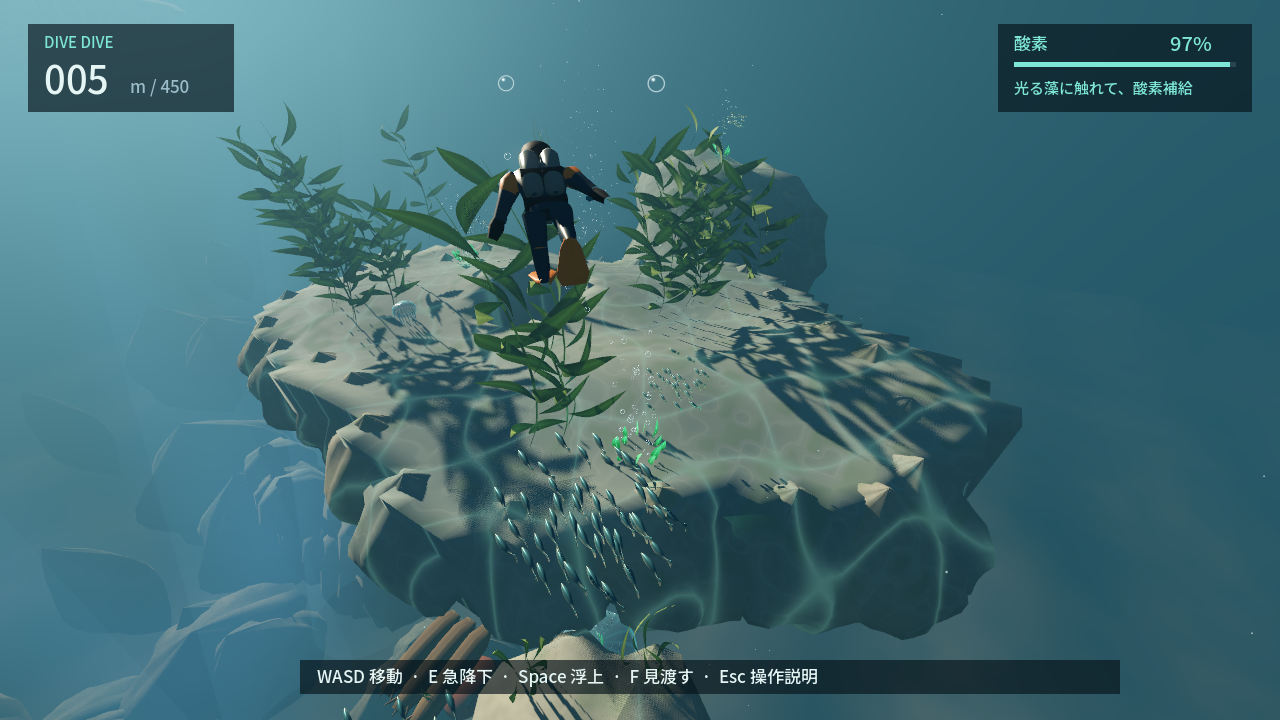
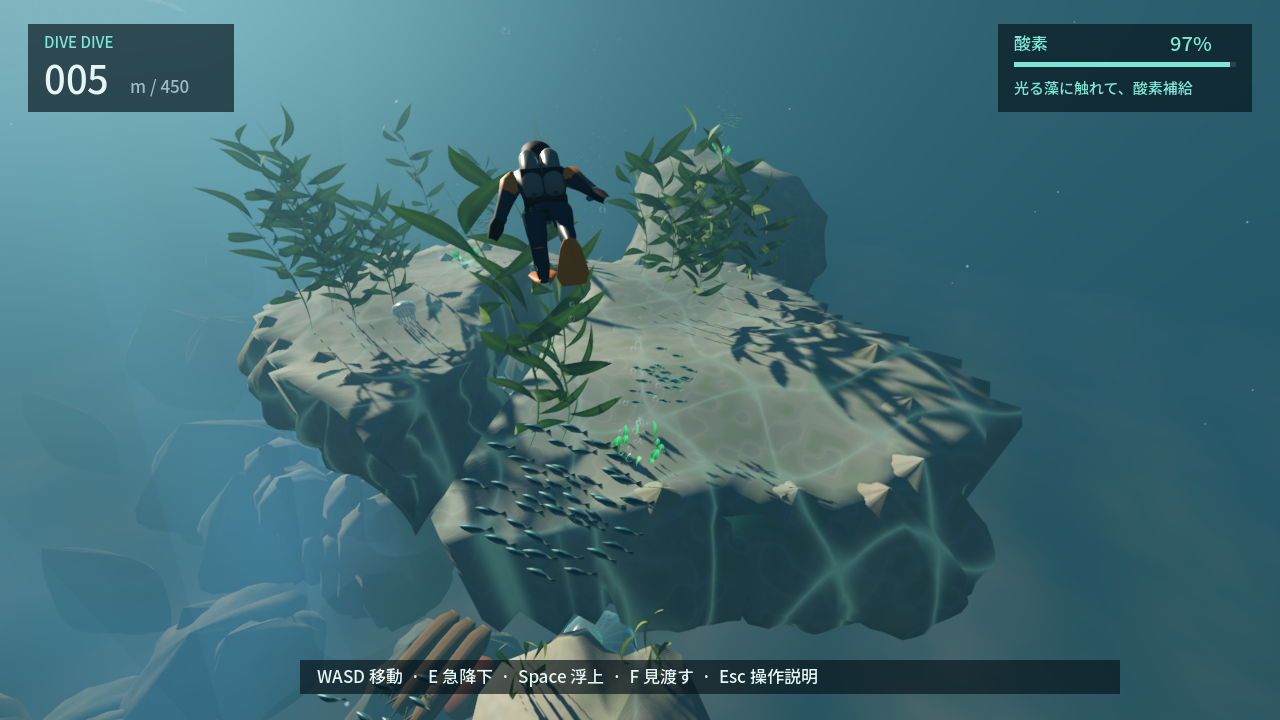
Connect the shallow reef cleft and refine underwater readability

diff --git a/projects/001-first-release/review/sequence/index.html b/projects/001-first-release/review/sequence/index.html
@@ -1,1 +1,1 @@
-<!doctype html><html lang="ja"><meta charset="utf-8"><title>DIVE DIVE — 連続プレイ</title><style>body{margin:24px;background:#071923;color:#e5f5f4;font:16px system-ui}main{max-width:1280px;margin:auto}img{width:100%;display:block}button,input{margin:12px}a{color:#7de6d4}input{width:60%}</style><main><h1>DIVE DIVE 連続プレイ</h1><p>各経路は自動操縦の同じプレイから2秒ごとに撮影。峡谷経路は125mの到達可能な既存補給地点を開始点として設定。モデル時刻の連続画像です（動画ではありません）。</p><select id="route" aria-label="再生する経路"></select><img id="screen" alt="連続プレイ画面"><button id="play">再生</button><input id="seek" type="range" min="0" value="0"><span id="caption"></span></main><script>const runs=[{"label":"125m補給地点→段丘歩行→岩橋→下側の庭（今回・開始点設定あり）","frames":[{"depth":129.3,"file":"canyon-frame-000.jpg","pose":"swim","seconds":2.0},{"depth":139.3,"file":"canyon-frame-001.jpg","pose":"swim","seconds":4.0},{"depth":149.3,"file":"canyon-frame-002.jpg","pose":"swim","seconds":6.0},{"depth":159.3,"file":"canyon-frame-003.jpg","pose":"swim","seconds":8.0},{"depth":160.7,"file":"canyon-frame-004.jpg","pose":"swim","seconds":10.0},{"depth":161.0,"file":"canyon-frame-005.jpg","pose":"ascend","seconds":12.0},{"depth":160.0,"file":"canyon-frame-006.jpg","pose":"idle","seconds":14.0},{"depth":160.0,"file":"canyon-frame-007.jpg","pose":"walk","seconds":16.0},{"depth":166.0,"file":"canyon-frame-008.jpg","pose":"walk","seconds":18.0},{"depth":172.0,"file":"canyon-frame-009.jpg","pose":"walk","seconds":20.0},{"depth":178.0,"file":"canyon-frame-010.jpg","pose":"walk","seconds":22.0},{"depth":183.5,"file":"canyon-frame-011.jpg","pose":"walk","seconds":24.0},{"depth":179.5,"file":"canyon-frame-012.jpg","pose":"swim","seconds":26.0},{"depth":180.5,"file":"canyon-frame-013.jpg","pose":"swim","seconds":28.0},{"depth":181.0,"file":"canyon-frame-014.jpg","pose":"land","seconds":30.0},{"depth":181.5,"file":"canyon-frame-015.jpg","pose":"walk","seconds":32.0},{"depth":185.1,"file":"canyon-frame-016.jpg","pose":"swim","seconds":34.0},{"depth":195.1,"file":"canyon-frame-017.jpg","pose":"swim","seconds":36.0},{"depth":205.1,"file":"canyon-frame-018.jpg","pose":"swim","seconds":38.0},{"depth":215.1,"file":"canyon-frame-019.jpg","pose":"swim","seconds":40.0}]},{"label":"岩礁→洞窟→125m合流（最新）","frames":[{"depth":0.0,"file":"playground-frame-000.jpg","pose":"swim","seconds":2.0},{"depth":14.7,"file":"playground-frame-001.jpg","pose":"dive","seconds":4.0},{"depth":28.1,"file":"playground-frame-002.jpg","pose":"ascend","seconds":6.0},{"depth":27.8,"file":"playground-frame-003.jpg","pose":"walk","seconds":8.0},{"depth":28.9,"file":"playground-frame-004.jpg","pose":"walk","seconds":10.0},{"depth":30.0,"file":"playground-frame-005.jpg","pose":"swim","seconds":12.0},{"depth":32.3,"file":"playground-frame-006.jpg","pose":"walk","seconds":14.0},{"depth":33.0,"file":"playground-frame-007.jpg","pose":"swim","seconds":16.0},{"depth":31.1,"file":"playground-frame-008.jpg","pose":"ascend","seconds":18.0},{"depth":31.3,"file":"playground-frame-009.jpg","pose":"swim","seconds":20.0},{"depth":54.5,"file":"playground-frame-010.jpg","pose":"dive","seconds":22.0},{"depth":53.0,"file":"playground-frame-011.jpg","pose":"ascend","seconds":24.0},{"depth":56.9,"file":"playground-frame-012.jpg","pose":"ascend","seconds":26.0},{"depth":45.1,"file":"playground-frame-013.jpg","pose":"ascend","seconds":28.0},{"depth":43.5,"file":"playground-frame-014.jpg","pose":"ascend","seconds":30.0},{"depth":43.0,"file":"playground-frame-015.jpg","pose":"walk","seconds":32.0},{"depth":43.6,"file":"playground-frame-016.jpg","pose":"walk","seconds":34.0},{"depth":54.1,"file":"playground-frame-017.jpg","pose":"dive","seconds":36.0},{"depth":65.9,"file":"playground-frame-018.jpg","pose":"swim","seconds":38.0},{"depth":72.3,"file":"playground-frame-019.jpg","pose":"swim","seconds":40.0},{"depth":82.3,"file":"playground-frame-020.jpg","pose":"swim","seconds":42.0},{"depth":92.3,"file":"playground-frame-021.jpg","pose":"swim","seconds":44.0},{"depth":94.2,"file":"playground-frame-022.jpg","pose":"swim","seconds":46.0},{"depth":103.4,"file":"playground-frame-023.jpg","pose":"swim","seconds":48.0},{"depth":113.4,"file":"playground-frame-024.jpg","pose":"swim","seconds":50.0},{"depth":123.4,"file":"playground-frame-025.jpg","pose":"swim","seconds":52.0},{"depth":125.0,"file":"playground-frame-026.jpg","pose":"swim","seconds":54.0},{"depth":126.0,"file":"playground-frame-027.jpg","pose":"swim","seconds":56.0}]},{"label":"洞窟→泡→屋根→上穴→別出口（最新）","frames":[{"depth":48.1,"file":"loop-frame-000.jpg","pose":"walk","seconds":2.0},{"depth":49.6,"file":"loop-frame-001.jpg","pose":"swim","seconds":4.0},{"depth":47.4,"file":"loop-frame-002.jpg","pose":"ascend","seconds":6.0},{"depth":40.5,"file":"loop-frame-003.jpg","pose":"ascend","seconds":8.0},{"depth":35.7,"file":"loop-frame-004.jpg","pose":"ascend","seconds":10.0},{"depth":31.2,"file":"loop-frame-005.jpg","pose":"ascend","seconds":12.0},{"depth":25.6,"file":"loop-frame-006.jpg","pose":"ascend","seconds":14.0},{"depth":24.5,"file":"loop-frame-007.jpg","pose":"ascend","seconds":16.0},{"depth":27.2,"file":"loop-frame-008.jpg","pose":"idle","seconds":18.0},{"depth":28.5,"file":"loop-frame-009.jpg","pose":"walk","seconds":20.0},{"depth":45.6,"file":"loop-frame-010.jpg","pose":"land","seconds":22.0},{"depth":49.6,"file":"loop-frame-011.jpg","pose":"swim","seconds":24.0},{"depth":65.1,"file":"loop-frame-012.jpg","pose":"swim","seconds":26.0}]},{"label":"探索試作: 泡・流れ・穴（最新）","frames":[{"depth":0.0,"file":"discovery-frame-000.jpg","pose":"swim","seconds":2.0},{"depth":15.7,"file":"discovery-frame-001.jpg","pose":"dive","seconds":4.0},{"depth":25.9,"file":"discovery-frame-002.jpg","pose":"sink","seconds":6.0},{"depth":38.8,"file":"discovery-frame-003.jpg","pose":"dive","seconds":8.0},{"depth":56.9,"file":"discovery-frame-004.jpg","pose":"swim","seconds":10.0},{"depth":67.9,"file":"discovery-frame-005.jpg","pose":"swim","seconds":12.0},{"depth":75.4,"file":"discovery-frame-006.jpg","pose":"swim","seconds":14.0},{"depth":86.4,"file":"discovery-frame-007.jpg","pose":"swim","seconds":16.0},{"depth":96.4,"file":"discovery-frame-008.jpg","pose":"sink","seconds":18.0},{"depth":111.2,"file":"discovery-frame-009.jpg","pose":"dive","seconds":20.0}]},{"label":"操作・救助・再挑戦","frames":[{"depth":0.0,"file":"frame-000.jpg","pose":"swim","seconds":2.0},{"depth":7.2,"file":"frame-001.jpg","pose":"swim","seconds":4.0},{"depth":17.2,"file":"frame-002.jpg","pose":"sink","seconds":6.0},{"depth":27.2,"file":"frame-003.jpg","pose":"sink","seconds":8.0},{"depth":30.1,"file":"frame-004.jpg","pose":"walk","seconds":10.0},{"depth":30.0,"file":"frame-005.jpg","pose":"walk","seconds":12.0},{"depth":30.0,"file":"frame-006.jpg","pose":"walk","seconds":14.0},{"depth":33.9,"file":"frame-007.jpg","pose":"swim","seconds":16.0},{"depth":48.9,"file":"frame-008.jpg","pose":"dive","seconds":18.0},{"depth":55.1,"file":"frame-009.jpg","pose":"ascend","seconds":20.0},{"depth":49.2,"file":"frame-010.jpg","pose":"sink","seconds":22.0},{"depth":59.2,"file":"frame-011.jpg","pose":"sink","seconds":24.0},{"depth":61.4,"file":"frame-012.jpg","pose":"swim","seconds":26.0},{"depth":65.4,"file":"frame-013.jpg","pose":"swim","seconds":28.0},{"depth":72.7,"file":"frame-014.jpg","pose":"swim","seconds":30.0},{"depth":82.7,"file":"frame-015.jpg","pose":"sink","seconds":32.0},{"depth":90.5,"file":"frame-016.jpg","pose":"walk","seconds":34.0},{"depth":90.3,"file":"frame-017.jpg","pose":"walk","seconds":36.0},{"depth":90.5,"file":"frame-018.jpg","pose":"idle","seconds":38.0},{"depth":90.5,"file":"frame-019.jpg","pose":"idle","seconds":40.0},{"depth":90.1,"file":"frame-020.jpg","pose":"idle","seconds":42.0},{"depth":90.1,"file":"frame-021.jpg","pose":"idle","seconds":44.0},{"depth":90.1,"file":"frame-022.jpg","pose":"idle","seconds":46.0},{"depth":90.1,"file":"frame-023.jpg","pose":"idle","seconds":48.0},{"depth":83.7,"file":"frame-024.jpg","pose":"ascend","seconds":50.0},{"depth":57.5,"file":"frame-025.jpg","pose":"dive","seconds":52.0},{"depth":61.5,"file":"frame-026.jpg","pose":"swim","seconds":54.0},{"depth":65.5,"file":"frame-027.jpg","pose":"swim","seconds":56.0},{"depth":73.0,"file":"frame-028.jpg","pose":"sink","seconds":58.0},{"depth":83.0,"file":"frame-029.jpg","pose":"sink","seconds":60.0},{"depth":90.3,"file":"frame-030.jpg","pose":"walk","seconds":62.0},{"depth":93.3,"file":"frame-031.jpg","pose":"swim","seconds":64.0}]},{"label":"岸壁・裂け目450m回帰確認","frames":[{"depth":0.0,"file":"reef-frame-000.jpg","pose":"swim","seconds":2.0},{"depth":7.2,"file":"reef-frame-001.jpg","pose":"swim","seconds":4.0},{"depth":17.2,"file":"reef-frame-002.jpg","pose":"sink","seconds":6.0},{"depth":27.2,"file":"reef-frame-003.jpg","pose":"sink","seconds":8.0},{"depth":30.4,"file":"reef-frame-004.jpg","pose":"swim","seconds":10.0},{"depth":34.4,"file":"reef-frame-005.jpg","pose":"swim","seconds":12.0},{"depth":44.2,"file":"reef-frame-006.jpg","pose":"sink","seconds":14.0},{"depth":54.2,"file":"reef-frame-007.jpg","pose":"sink","seconds":16.0},{"depth":60.0,"file":"reef-frame-008.jpg","pose":"walk","seconds":18.0},{"depth":62.5,"file":"reef-frame-009.jpg","pose":"swim","seconds":20.0},{"depth":71.1,"file":"reef-frame-010.jpg","pose":"sink","seconds":22.0},{"depth":81.1,"file":"reef-frame-011.jpg","pose":"sink","seconds":24.0},{"depth":91.1,"file":"reef-frame-012.jpg","pose":"sink","seconds":26.0},{"depth":96.1,"file":"reef-frame-013.jpg","pose":"swim","seconds":28.0},{"depth":103.7,"file":"reef-frame-014.jpg","pose":"sink","seconds":30.0},{"depth":113.7,"file":"reef-frame-015.jpg","pose":"sink","seconds":32.0},{"depth":123.7,"file":"reef-frame-016.jpg","pose":"sink","seconds":34.0},{"depth":133.7,"file":"reef-frame-017.jpg","pose":"sink","seconds":36.0},{"depth":140.0,"file":"reef-frame-018.jpg","pose":"walk","seconds":38.0},{"depth":142.5,"file":"reef-frame-019.jpg","pose":"swim","seconds":40.0},{"depth":146.5,"file":"reef-frame-020.jpg","pose":"swim","seconds":42.0},{"depth":151.6,"file":"reef-frame-021.jpg","pose":"swim","seconds":44.0},{"depth":161.6,"file":"reef-frame-022.jpg","pose":"sink","seconds":46.0},{"depth":171.6,"file":"reef-frame-023.jpg","pose":"sink","seconds":48.0},{"depth":173.4,"file":"reef-frame-024.jpg","pose":"swim","seconds":50.0},{"depth":183.4,"file":"reef-frame-025.jpg","pose":"sink","seconds":52.0},{"depth":190.0,"file":"reef-frame-026.jpg","pose":"walk","seconds":54.0},{"depth":190.0,"file":"reef-frame-027.jpg","pose":"idle","seconds":56.0},{"depth":190.0,"file":"reef-frame-028.jpg","pose":"walk","seconds":58.0},{"depth":190.0,"file":"reef-frame-029.jpg","pose":"idle","seconds":60.0},{"depth":190.0,"file":"reef-frame-030.jpg","pose":"walk","seconds":62.0},{"depth":193.0,"file":"reef-frame-031.jpg","pose":"walk","seconds":64.0},{"depth":194.9,"file":"reef-frame-032.jpg","pose":"sink","seconds":66.0},{"depth":204.9,"file":"reef-frame-033.jpg","pose":"land","seconds":68.0},{"depth":206.4,"file":"reef-frame-034.jpg","pose":"swim","seconds":70.0},{"depth":212.3,"file":"reef-frame-035.jpg","pose":"swim","seconds":72.0},{"depth":222.3,"file":"reef-frame-036.jpg","pose":"sink","seconds":74.0},{"depth":232.3,"file":"reef-frame-037.jpg","pose":"sink","seconds":76.0},{"depth":235.9,"file":"reef-frame-038.jpg","pose":"swim","seconds":78.0},{"depth":240.2,"file":"reef-frame-039.jpg","pose":"swim","seconds":80.0},{"depth":244.3,"file":"reef-frame-040.jpg","pose":"swim","seconds":82.0},{"depth":248.3,"file":"reef-frame-041.jpg","pose":"swim","seconds":84.0},{"depth":256.5,"file":"reef-frame-042.jpg","pose":"sink","seconds":86.0},{"depth":260.0,"file":"reef-frame-043.jpg","pose":"walk","seconds":88.0},{"depth":264.0,"file":"reef-frame-044.jpg","pose":"swim","seconds":90.0},{"depth":271.1,"file":"reef-frame-045.jpg","pose":"swim","seconds":92.0},{"depth":281.1,"file":"reef-frame-046.jpg","pose":"sink","seconds":94.0},{"depth":291.1,"file":"reef-frame-047.jpg","pose":"sink","seconds":96.0},{"depth":300.0,"file":"reef-frame-048.jpg","pose":"land","seconds":98.0},{"depth":300.8,"file":"reef-frame-049.jpg","pose":"swim","seconds":100.0},{"depth":304.8,"file":"reef-frame-050.jpg","pose":"swim","seconds":102.0},{"depth":313.0,"file":"reef-frame-051.jpg","pose":"sink","seconds":104.0},{"depth":323.0,"file":"reef-frame-052.jpg","pose":"sink","seconds":106.0},{"depth":330.0,"file":"reef-frame-053.jpg","pose":"walk","seconds":108.0},{"depth":333.0,"file":"reef-frame-054.jpg","pose":"swim","seconds":110.0},{"depth":340.1,"file":"reef-frame-055.jpg","pose":"swim","seconds":112.0},{"depth":350.1,"file":"reef-frame-056.jpg","pose":"sink","seconds":114.0},{"depth":360.1,"file":"reef-frame-057.jpg","pose":"sink","seconds":116.0},{"depth":365.1,"file":"reef-frame-058.jpg","pose":"walk","seconds":118.0},{"depth":368.9,"file":"reef-frame-059.jpg","pose":"swim","seconds":120.0},{"depth":377.9,"file":"reef-frame-060.jpg","pose":"sink","seconds":122.0},{"depth":380.7,"file":"reef-frame-061.jpg","pose":"swim","seconds":124.0},{"depth":386.8,"file":"reef-frame-062.jpg","pose":"swim","seconds":126.0},{"depth":396.8,"file":"reef-frame-063.jpg","pose":"sink","seconds":128.0},{"depth":406.8,"file":"reef-frame-064.jpg","pose":"sink","seconds":130.0},{"depth":416.8,"file":"reef-frame-065.jpg","pose":"sink","seconds":132.0},{"depth":426.8,"file":"reef-frame-066.jpg","pose":"sink","seconds":134.0},{"depth":436.8,"file":"reef-frame-067.jpg","pose":"sink","seconds":136.0},{"depth":446.8,"file":"reef-frame-068.jpg","pose":"sink","seconds":138.0}]}];let frames=runs[0].frames;let i=0,timer=null;const screen=document.querySelector('#screen'),seek=document.querySelector('#seek'),caption=document.querySelector('#caption'),play=document.querySelector('#play');const route=document.querySelector('#route');runs.forEach((r,n)=>{const o=document.createElement('option');o.value=n;o.textContent=r.label;route.appendChild(o);});route.onchange=()=>{frames=runs[+route.value].frames;i=0;seek.max=frames.length-1;show();};seek.max=frames.length-1;function show(){const f=frames[i];screen.src=f.file;seek.value=i;caption.textContent=f.seconds+'秒 / '+f.depth+'m / '+f.pose;}seek.oninput=()=>{i=+seek.value;show();};play.onclick=()=>{if(timer){clearInterval(timer);timer=null;play.textContent='再生';}else{play.textContent='停止';timer=setInterval(()=>{i=(i+1)%frames.length;show();},2000);}};show();</script></html>
+<!doctype html><html lang="ja"><meta charset="utf-8"><title>DIVE DIVE — 連続プレイ</title><style>body{margin:24px;background:#071923;color:#e5f5f4;font:16px system-ui}main{max-width:1280px;margin:auto}img{width:100%;display:block}button,input{margin:12px}a{color:#7de6d4}input{width:60%}</style><main><h1>DIVE DIVE 連続プレイ</h1><p>各経路は自動操縦の同じプレイから2秒ごとに撮影。峡谷経路は125mの到達可能な既存補給地点を開始点として設定。モデル時刻の連続画像です（動画ではありません）。</p><select id="route" aria-label="再生する経路"></select><img id="screen" alt="連続プレイ画面"><button id="play">再生</button><input id="seek" type="range" min="0" value="0"><span id="caption"></span></main><script>const runs=[{"label":"海上→藻庭→横穴→縦穴（今回・連続入力）","frames":[{"depth":0.0,"file":"entry-frame-000.jpg","pose":"swim","seconds":2.0},{"depth":6.8,"file":"entry-frame-001.jpg","pose":"dive","seconds":4.0},{"depth":28.1,"file":"entry-frame-002.jpg","pose":"walk","seconds":6.0},{"depth":30.4,"file":"entry-frame-003.jpg","pose":"swim","seconds":8.0},{"depth":40.4,"file":"entry-frame-004.jpg","pose":"swim","seconds":10.0}]},{"label":"125m補給地点→段丘歩行→岩橋→下側の庭（7895b60・開始点設定あり）","frames":[{"depth":129.3,"file":"canyon-frame-000.jpg","pose":"swim","seconds":2.0},{"depth":139.3,"file":"canyon-frame-001.jpg","pose":"swim","seconds":4.0},{"depth":149.3,"file":"canyon-frame-002.jpg","pose":"swim","seconds":6.0},{"depth":159.3,"file":"canyon-frame-003.jpg","pose":"swim","seconds":8.0},{"depth":160.7,"file":"canyon-frame-004.jpg","pose":"swim","seconds":10.0},{"depth":161.0,"file":"canyon-frame-005.jpg","pose":"ascend","seconds":12.0},{"depth":160.0,"file":"canyon-frame-006.jpg","pose":"idle","seconds":14.0},{"depth":160.0,"file":"canyon-frame-007.jpg","pose":"walk","seconds":16.0},{"depth":166.0,"file":"canyon-frame-008.jpg","pose":"walk","seconds":18.0},{"depth":172.0,"file":"canyon-frame-009.jpg","pose":"walk","seconds":20.0},{"depth":178.0,"file":"canyon-frame-010.jpg","pose":"walk","seconds":22.0},{"depth":183.5,"file":"canyon-frame-011.jpg","pose":"walk","seconds":24.0},{"depth":179.5,"file":"canyon-frame-012.jpg","pose":"swim","seconds":26.0},{"depth":180.5,"file":"canyon-frame-013.jpg","pose":"swim","seconds":28.0},{"depth":181.0,"file":"canyon-frame-014.jpg","pose":"land","seconds":30.0},{"depth":181.5,"file":"canyon-frame-015.jpg","pose":"walk","seconds":32.0},{"depth":185.1,"file":"canyon-frame-016.jpg","pose":"swim","seconds":34.0},{"depth":195.1,"file":"canyon-frame-017.jpg","pose":"swim","seconds":36.0},{"depth":205.1,"file":"canyon-frame-018.jpg","pose":"swim","seconds":38.0},{"depth":215.1,"file":"canyon-frame-019.jpg","pose":"swim","seconds":40.0}]},{"label":"岩礁→洞窟→125m合流（過去サイクルの参考）","frames":[{"depth":0.0,"file":"playground-frame-000.jpg","pose":"swim","seconds":2.0},{"depth":14.7,"file":"playground-frame-001.jpg","pose":"dive","seconds":4.0},{"depth":28.1,"file":"playground-frame-002.jpg","pose":"ascend","seconds":6.0},{"depth":27.8,"file":"playground-frame-003.jpg","pose":"walk","seconds":8.0},{"depth":28.9,"file":"playground-frame-004.jpg","pose":"walk","seconds":10.0},{"depth":30.0,"file":"playground-frame-005.jpg","pose":"swim","seconds":12.0},{"depth":32.3,"file":"playground-frame-006.jpg","pose":"walk","seconds":14.0},{"depth":33.0,"file":"playground-frame-007.jpg","pose":"swim","seconds":16.0},{"depth":31.1,"file":"playground-frame-008.jpg","pose":"ascend","seconds":18.0},{"depth":31.3,"file":"playground-frame-009.jpg","pose":"swim","seconds":20.0},{"depth":54.5,"file":"playground-frame-010.jpg","pose":"dive","seconds":22.0},{"depth":53.0,"file":"playground-frame-011.jpg","pose":"ascend","seconds":24.0},{"depth":56.9,"file":"playground-frame-012.jpg","pose":"ascend","seconds":26.0},{"depth":45.1,"file":"playground-frame-013.jpg","pose":"ascend","seconds":28.0},{"depth":43.5,"file":"playground-frame-014.jpg","pose":"ascend","seconds":30.0},{"depth":43.0,"file":"playground-frame-015.jpg","pose":"walk","seconds":32.0},{"depth":43.6,"file":"playground-frame-016.jpg","pose":"walk","seconds":34.0},{"depth":54.1,"file":"playground-frame-017.jpg","pose":"dive","seconds":36.0},{"depth":65.9,"file":"playground-frame-018.jpg","pose":"swim","seconds":38.0},{"depth":72.3,"file":"playground-frame-019.jpg","pose":"swim","seconds":40.0},{"depth":82.3,"file":"playground-frame-020.jpg","pose":"swim","seconds":42.0},{"depth":92.3,"file":"playground-frame-021.jpg","pose":"swim","seconds":44.0},{"depth":94.2,"file":"playground-frame-022.jpg","pose":"swim","seconds":46.0},{"depth":103.4,"file":"playground-frame-023.jpg","pose":"swim","seconds":48.0},{"depth":113.4,"file":"playground-frame-024.jpg","pose":"swim","seconds":50.0},{"depth":123.4,"file":"playground-frame-025.jpg","pose":"swim","seconds":52.0},{"depth":125.0,"file":"playground-frame-026.jpg","pose":"swim","seconds":54.0},{"depth":126.0,"file":"playground-frame-027.jpg","pose":"swim","seconds":56.0}]},{"label":"洞窟→泡→屋根→上穴→別出口（過去サイクルの参考）","frames":[{"depth":48.1,"file":"loop-frame-000.jpg","pose":"walk","seconds":2.0},{"depth":49.6,"file":"loop-frame-001.jpg","pose":"swim","seconds":4.0},{"depth":47.4,"file":"loop-frame-002.jpg","pose":"ascend","seconds":6.0},{"depth":40.5,"file":"loop-frame-003.jpg","pose":"ascend","seconds":8.0},{"depth":35.7,"file":"loop-frame-004.jpg","pose":"ascend","seconds":10.0},{"depth":31.2,"file":"loop-frame-005.jpg","pose":"ascend","seconds":12.0},{"depth":25.6,"file":"loop-frame-006.jpg","pose":"ascend","seconds":14.0},{"depth":24.5,"file":"loop-frame-007.jpg","pose":"ascend","seconds":16.0},{"depth":27.2,"file":"loop-frame-008.jpg","pose":"idle","seconds":18.0},{"depth":28.5,"file":"loop-frame-009.jpg","pose":"walk","seconds":20.0},{"depth":45.6,"file":"loop-frame-010.jpg","pose":"land","seconds":22.0},{"depth":49.6,"file":"loop-frame-011.jpg","pose":"swim","seconds":24.0},{"depth":65.1,"file":"loop-frame-012.jpg","pose":"swim","seconds":26.0}]},{"label":"探索試作: 泡・流れ・穴（過去サイクルの参考）","frames":[{"depth":0.0,"file":"discovery-frame-000.jpg","pose":"swim","seconds":2.0},{"depth":15.7,"file":"discovery-frame-001.jpg","pose":"dive","seconds":4.0},{"depth":25.9,"file":"discovery-frame-002.jpg","pose":"sink","seconds":6.0},{"depth":38.8,"file":"discovery-frame-003.jpg","pose":"dive","seconds":8.0},{"depth":56.9,"file":"discovery-frame-004.jpg","pose":"swim","seconds":10.0},{"depth":67.9,"file":"discovery-frame-005.jpg","pose":"swim","seconds":12.0},{"depth":75.4,"file":"discovery-frame-006.jpg","pose":"swim","seconds":14.0},{"depth":86.4,"file":"discovery-frame-007.jpg","pose":"swim","seconds":16.0},{"depth":96.4,"file":"discovery-frame-008.jpg","pose":"sink","seconds":18.0},{"depth":111.2,"file":"discovery-frame-009.jpg","pose":"dive","seconds":20.0}]},{"label":"操作・救助・再挑戦","frames":[{"depth":0.0,"file":"frame-000.jpg","pose":"swim","seconds":2.0},{"depth":7.2,"file":"frame-001.jpg","pose":"swim","seconds":4.0},{"depth":17.2,"file":"frame-002.jpg","pose":"sink","seconds":6.0},{"depth":27.2,"file":"frame-003.jpg","pose":"sink","seconds":8.0},{"depth":30.1,"file":"frame-004.jpg","pose":"walk","seconds":10.0},{"depth":30.0,"file":"frame-005.jpg","pose":"walk","seconds":12.0},{"depth":30.0,"file":"frame-006.jpg","pose":"walk","seconds":14.0},{"depth":33.9,"file":"frame-007.jpg","pose":"swim","seconds":16.0},{"depth":48.9,"file":"frame-008.jpg","pose":"dive","seconds":18.0},{"depth":55.1,"file":"frame-009.jpg","pose":"ascend","seconds":20.0},{"depth":49.2,"file":"frame-010.jpg","pose":"sink","seconds":22.0},{"depth":59.2,"file":"frame-011.jpg","pose":"sink","seconds":24.0},{"depth":61.4,"file":"frame-012.jpg","pose":"swim","seconds":26.0},{"depth":65.4,"file":"frame-013.jpg","pose":"swim","seconds":28.0},{"depth":72.7,"file":"frame-014.jpg","pose":"swim","seconds":30.0},{"depth":82.7,"file":"frame-015.jpg","pose":"sink","seconds":32.0},{"depth":90.5,"file":"frame-016.jpg","pose":"walk","seconds":34.0},{"depth":90.3,"file":"frame-017.jpg","pose":"walk","seconds":36.0},{"depth":90.5,"file":"frame-018.jpg","pose":"idle","seconds":38.0},{"depth":90.5,"file":"frame-019.jpg","pose":"idle","seconds":40.0},{"depth":90.1,"file":"frame-020.jpg","pose":"idle","seconds":42.0},{"depth":90.1,"file":"frame-021.jpg","pose":"idle","seconds":44.0},{"depth":90.1,"file":"frame-022.jpg","pose":"idle","seconds":46.0},{"depth":90.1,"file":"frame-023.jpg","pose":"idle","seconds":48.0},{"depth":83.7,"file":"frame-024.jpg","pose":"ascend","seconds":50.0},{"depth":57.5,"file":"frame-025.jpg","pose":"dive","seconds":52.0},{"depth":61.5,"file":"frame-026.jpg","pose":"swim","seconds":54.0},{"depth":65.5,"file":"frame-027.jpg","pose":"swim","seconds":56.0},{"depth":73.0,"file":"frame-028.jpg","pose":"sink","seconds":58.0},{"depth":83.0,"file":"frame-029.jpg","pose":"sink","seconds":60.0},{"depth":90.3,"file":"frame-030.jpg","pose":"walk","seconds":62.0},{"depth":93.3,"file":"frame-031.jpg","pose":"swim","seconds":64.0}]},{"label":"岸壁・裂け目450m回帰確認","frames":[{"depth":0.0,"file":"reef-frame-000.jpg","pose":"swim","seconds":2.0},{"depth":7.2,"file":"reef-frame-001.jpg","pose":"swim","seconds":4.0},{"depth":17.2,"file":"reef-frame-002.jpg","pose":"sink","seconds":6.0},{"depth":27.2,"file":"reef-frame-003.jpg","pose":"sink","seconds":8.0},{"depth":30.4,"file":"reef-frame-004.jpg","pose":"swim","seconds":10.0},{"depth":34.4,"file":"reef-frame-005.jpg","pose":"swim","seconds":12.0},{"depth":44.2,"file":"reef-frame-006.jpg","pose":"sink","seconds":14.0},{"depth":54.2,"file":"reef-frame-007.jpg","pose":"sink","seconds":16.0},{"depth":60.0,"file":"reef-frame-008.jpg","pose":"walk","seconds":18.0},{"depth":62.5,"file":"reef-frame-009.jpg","pose":"swim","seconds":20.0},{"depth":71.1,"file":"reef-frame-010.jpg","pose":"sink","seconds":22.0},{"depth":81.1,"file":"reef-frame-011.jpg","pose":"sink","seconds":24.0},{"depth":91.1,"file":"reef-frame-012.jpg","pose":"sink","seconds":26.0},{"depth":96.1,"file":"reef-frame-013.jpg","pose":"swim","seconds":28.0},{"depth":103.7,"file":"reef-frame-014.jpg","pose":"sink","seconds":30.0},{"depth":113.7,"file":"reef-frame-015.jpg","pose":"sink","seconds":32.0},{"depth":123.7,"file":"reef-frame-016.jpg","pose":"sink","seconds":34.0},{"depth":133.7,"file":"reef-frame-017.jpg","pose":"sink","seconds":36.0},{"depth":140.0,"file":"reef-frame-018.jpg","pose":"walk","seconds":38.0},{"depth":142.5,"file":"reef-frame-019.jpg","pose":"swim","seconds":40.0},{"depth":146.5,"file":"reef-frame-020.jpg","pose":"swim","seconds":42.0},{"depth":151.6,"file":"reef-frame-021.jpg","pose":"swim","seconds":44.0},{"depth":161.6,"file":"reef-frame-022.jpg","pose":"sink","seconds":46.0},{"depth":171.6,"file":"reef-frame-023.jpg","pose":"sink","seconds":48.0},{"depth":173.4,"file":"reef-frame-024.jpg","pose":"swim","seconds":50.0},{"depth":183.4,"file":"reef-frame-025.jpg","pose":"sink","seconds":52.0},{"depth":190.0,"file":"reef-frame-026.jpg","pose":"walk","seconds":54.0},{"depth":190.0,"file":"reef-frame-027.jpg","pose":"idle","seconds":56.0},{"depth":190.0,"file":"reef-frame-028.jpg","pose":"walk","seconds":58.0},{"depth":190.0,"file":"reef-frame-029.jpg","pose":"idle","seconds":60.0},{"depth":190.0,"file":"reef-frame-030.jpg","pose":"walk","seconds":62.0},{"depth":193.0,"file":"reef-frame-031.jpg","pose":"walk","seconds":64.0},{"depth":194.9,"file":"reef-frame-032.jpg","pose":"sink","seconds":66.0},{"depth":204.9,"file":"reef-frame-033.jpg","pose":"land","seconds":68.0},{"depth":206.4,"file":"reef-frame-034.jpg","pose":"swim","seconds":70.0},{"depth":212.3,"file":"reef-frame-035.jpg","pose":"swim","seconds":72.0},{"depth":222.3,"file":"reef-frame-036.jpg","pose":"sink","seconds":74.0},{"depth":232.3,"file":"reef-frame-037.jpg","pose":"sink","seconds":76.0},{"depth":235.9,"file":"reef-frame-038.jpg","pose":"swim","seconds":78.0},{"depth":240.2,"file":"reef-frame-039.jpg","pose":"swim","seconds":80.0},{"depth":244.3,"file":"reef-frame-040.jpg","pose":"swim","seconds":82.0},{"depth":248.3,"file":"reef-frame-041.jpg","pose":"swim","seconds":84.0},{"depth":256.5,"file":"reef-frame-042.jpg","pose":"sink","seconds":86.0},{"depth":260.0,"file":"reef-frame-043.jpg","pose":"walk","seconds":88.0},{"depth":264.0,"file":"reef-frame-044.jpg","pose":"swim","seconds":90.0},{"depth":271.1,"file":"reef-frame-045.jpg","pose":"swim","seconds":92.0},{"depth":281.1,"file":"reef-frame-046.jpg","pose":"sink","seconds":94.0},{"depth":291.1,"file":"reef-frame-047.jpg","pose":"sink","seconds":96.0},{"depth":300.0,"file":"reef-frame-048.jpg","pose":"land","seconds":98.0},{"depth":300.8,"file":"reef-frame-049.jpg","pose":"swim","seconds":100.0},{"depth":304.8,"file":"reef-frame-050.jpg","pose":"swim","seconds":102.0},{"depth":313.0,"file":"reef-frame-051.jpg","pose":"sink","seconds":104.0},{"depth":323.0,"file":"reef-frame-052.jpg","pose":"sink","seconds":106.0},{"depth":330.0,"file":"reef-frame-053.jpg","pose":"walk","seconds":108.0},{"depth":333.0,"file":"reef-frame-054.jpg","pose":"swim","seconds":110.0},{"depth":340.1,"file":"reef-frame-055.jpg","pose":"swim","seconds":112.0},{"depth":350.1,"file":"reef-frame-056.jpg","pose":"sink","seconds":114.0},{"depth":360.1,"file":"reef-frame-057.jpg","pose":"sink","seconds":116.0},{"depth":365.1,"file":"reef-frame-058.jpg","pose":"walk","seconds":118.0},{"depth":368.9,"file":"reef-frame-059.jpg","pose":"swim","seconds":120.0},{"depth":377.9,"file":"reef-frame-060.jpg","pose":"sink","seconds":122.0},{"depth":380.7,"file":"reef-frame-061.jpg","pose":"swim","seconds":124.0},{"depth":386.8,"file":"reef-frame-062.jpg","pose":"swim","seconds":126.0},{"depth":396.8,"file":"reef-frame-063.jpg","pose":"sink","seconds":128.0},{"depth":406.8,"file":"reef-frame-064.jpg","pose":"sink","seconds":130.0},{"depth":416.8,"file":"reef-frame-065.jpg","pose":"sink","seconds":132.0},{"depth":426.8,"file":"reef-frame-066.jpg","pose":"sink","seconds":134.0},{"depth":436.8,"file":"reef-frame-067.jpg","pose":"sink","seconds":136.0},{"depth":446.8,"file":"reef-frame-068.jpg","pose":"sink","seconds":138.0}]}];let frames=runs[0].frames;let i=0,timer=null;const screen=document.querySelector('#screen'),seek=document.querySelector('#seek'),caption=document.querySelector('#caption'),play=document.querySelector('#play');const route=document.querySelector('#route');runs.forEach((r,n)=>{const o=document.createElement('option');o.value=n;o.textContent=r.label;route.appendChild(o);});route.onchange=()=>{frames=runs[+route.value].frames;i=0;seek.max=frames.length-1;show();};seek.max=frames.length-1;function show(){const f=frames[i];screen.src=f.file;seek.value=i;caption.textContent=f.seconds+'秒 / '+f.depth+'m / '+f.pose;}seek.oninput=()=>{i=+seek.value;show();};play.onclick=()=>{if(timer){clearInterval(timer);timer=null;play.textContent='再生';}else{play.textContent='停止';timer=setInterval(()=>{i=(i+1)%frames.length;show();},2000);}};show();</script></html>

diff --git a/projects/001-first-release/REVIEW_PACKET.md b/projects/001-first-release/REVIEW_PACKET.md
@@ -8,23 +8,24 @@
 
 ## 前版との画面比較
 
-基準は `417f894` のゲームコード。峡谷は同じプレイヤー位置・視線の向き・酸素100%から通常カメラで撮影。入水は同じ入力/視線で比較し、今回修正対象のカメラ位置は変わる。GPU粒子の位相は一致しない。到達までの連続プレイと、比較用の開始点は区別する。
+峡谷の基準は `417f894`、入水の基準は直前の `7895b60`。裂け目内側は同サイクルの加工前後。峡谷は同じプレイヤー位置・視線の向き・酸素100%から通常カメラで撮影。入水は同じ入力/視線で比較し、今回修正対象のカメラ位置は変わる。GPU粒子の位相は一致しない。到達までの連続プレイと、比較用の開始点は区別する。
 
 | 場面 | 前 | 今 | 自己批評 |
 | --- | --- | --- | --- |
-| 入水5m | [前](review/entry-before/51-enter-ocean.png) | [今](review/51-enter-ocean.png) | 水面越しの白さと大きな泡を減らし、光/魚/海藻が読める。中央の藻へ向かう一択感は残り、未合格 |
+| 入水5m | [前](review/entry-before/51-enter-ocean.png) | [今](review/51-enter-ocean.png) | 岩礁の法線/影を修正、横の切れ目を追加。海藻の陰で入口は小さく、中央の藻へ向かう一択感は残る。未合格 |
+| 裂け目内35m | [加工前](review/entry-before/66-inside-reef-cleft.png) | [今](review/66-inside-reef-cleft.png) | 垂直な板壁と格子状の縁を、窪みと連続した輪郭へ。まだ均質な岩材と細い通路感が残る |
 | 岸壁の入口140m | [前](review/canyon-before/60-canyon-approach.png) | [今](review/canyon/60-canyon-approach.png) | 旧アーチの下側が塞いだ画面から、歩く段丘と横断橋が見える場所へ。壁の塊と橋は人工的 |
 | 内部177m | [前](review/canyon-before/61-canyon-interior.png) | [今](review/canyon/61-canyon-interior.png) | 上の補給と下の藻庭、外側の切れ目を観察できる。下へ進むだけより選べるが、まだ均質な通路感 |
 
 ![峡谷の現在](review/canyon/61-canyon-interior.png)
 
-[段丘を歩く](review/canyon/63-walk-terrace.png) / [橋の上から潜る](review/canyon/64-crossing.png) / [外側](review/canyon/62-canyon-exterior.png) / [水面光](review/52-surface-light.png) / [GL峡谷](review/compatibility/61-canyon-interior.png) / [連続画像](review/sequence/index.html)。
+[浅海の横穴を見つける](review/65-cleft-choice.png) / [GLの横穴](review/compatibility/66-inside-reef-cleft.png) / [段丘を歩く](review/canyon/63-walk-terrace.png) / [橋の上から潜る](review/canyon/64-crossing.png) / [外側](review/canyon/62-canyon-exterior.png) / [水面光](review/52-surface-light.png) / [GL峡谷](review/compatibility/61-canyon-interior.png) / [連続画像](review/sequence/index.html)。
 
 ## この場所で何を考えるか
 
 | 区間 | 見えるもの・迷うこと・試すこと | 前区間との違い / 密度 |
 | --- | --- | --- |
-| 海面〜浅海 | 光る藻と魚群へ近づく。左の泡/別の穴の魅力はまだ画面上で弱い | 開放感はあるが、大きな岩礁一つに視線が集まる |
+| 海面〜浅海 | 藻で補給した後、岩礁を横へ歩くか、裂け目へ入り縦穴へ抜けるか。横穴は同じ岩礁の内側を使う。入口での誘いはまだ弱い | 開放感はあるが、大きな岩礁一つに視線が集まる |
 | 125〜160m | 岩壁に沿う棚へ寄るか、沖側の既知の経路を保つか | 広い青から両岸に包まれる。棚は飾りでなく歩いて降りられる |
 | 段丘〜岩橋 | 歩いて見渡す。橋上の藻へ戻るか、下の庭へ深度を取るか | 泳ぐ→接地して歩く→泳ぐ。上/下で同じ橋の使い方が違う |
 | 横断口〜下側 | 壁の切れ目から沖へ出るか、岩の内側へ入るか | 見えている段丘・橋・斜面・下側棚は実利用可。全壁面や全遠景を踏破済みとはしない |
@@ -43,6 +44,12 @@
 [峡谷測定](review/canyon.json)。125mから段丘→橋→内部は理想操縦で約40秒。9.5秒の段丘移動は全570フレーム接地。途中の同じ分岐で、橋上補給は約4.8秒、下側の藻庭は約8.3秒。酸素100%なら両方到達、30%なら橋上は補給、下側は7.52秒で救助。初見時間や楽しさの証明ではない。
 
 最終check/実GPU結果はPROJECT_STATEに記録。峡谷32検査は通常/E着地、側面、Spaceで橋裏、60/15Hz、逆向き歩行、実補給を含む。既存の衝突・救助・11経路も回帰対象。新しい3群落を含む藻庭救助を実試験。
+
+## 浅海の再改善
+
+海上→藻庭→横穴→縦穴を連続入力で約11.6秒（理想操縦）。垂直な板壁案を棄却し、縁と窪みを再生成。全外周へ同じ加工を適用した案は初回着地が引っ掛かったため、裂け目だけへ限定。旧側面試験の位置が新しい穴になったので、残る側壁と穴の両側を60/15Hzの実カプセルで再検査。全岩礁157検査が成功。
+
+岩礁上面の法線反転を修正。透明小粒子の投影を止め、Forward+はTAA/影フィルタで近接壁のPCSS模様を軽減。影を全撤去した診断案は採用しない。RTX 4070 SUPER・720pの6場面中央値2.18〜3.47ms（レンダー待ちの実時間、GPU単体時間ではない）。移動画像では長い残像は認めないが、別GPUと高解像度は未検証。
 
 ## 判定と次
 

diff --git a/projects/001-first-release/PROJECT_STATE.md b/projects/001-first-release/PROJECT_STATE.md
@@ -7,7 +7,7 @@
 ## 現在動くもの
 
 - 海上から入水、自然沈降5m/s、E15m/s・酸素2.5倍、Space6m/s。藻で即補給、酸素切れは同じ世界で救助。450mの既存経路。
-- 浅海の連続岩礁・海藻林・縦穴・空気洞、洞内/屋根/外側の周回、泡上昇流。
+- 浅海の藻庭から横へ入り縦穴へ抜ける裂け目。縁の格子状の角を除き、内部の壁に窪みを追加。従来の岩礁歩行・空気洞・屋根/外側・泡上昇流も維持。
 - 160〜240mの東側に段丘・斜面・岩橋・橋の下の藻庭・壁を横断する内外経路。125mの既存補給地点から連続試走。歩いて下降/登り返し、泳いで横断、橋の下へ潜れる。
 - 入水済みの泳者と追従カメラの水中判定を合わせ、大きな泡の遮蔽を減らした。
 - 最新ビルド出力は `build/windows-agent/DIVE DIVE.exe`。人間の `windows-preview` 等は置換しない。[起動方法](README.md) / [比較と測定](REVIEW_PACKET.md)。
@@ -16,13 +16,13 @@
 
 `git fetch origin main` 後、正本2文書は `origin/main` の `8b49a60` を確認。HUMAN_DIRECTIONは正本本文と会話補足を分離、EXTERNAL_AI_REVIEWは正本と一致。未実装指示はDD-064〜067のP0/P1へ。
 
-最終コードで `./dev.ps1 check -BuildFolder windows-agent` 成功。format/lint/依存、ルール479・シーン430・音57・実衝突689・探索19・岩礁/藻庭救助147・入水7・峡谷32、補助の表面2688点、既存11経路、Windows export/EXE headless起動。逆向き歩行の速度消失も修正。Forward+/Compatibilityの峡谷32検査・入水撮影、標準visualの救助/ゴール、配布EXEの両方式120フレーム描画も成功。GPUは画面外・無音・非捕捉で行い、Codexが起動したプロセスのみ終了。
+最終コードで `./dev.ps1 check -BuildFolder windows-agent` 成功。format/lint/依存、ルール479・シーン430・音57・実衝突689・探索19・岩礁/藻庭救助157・入水10・峡谷32、補助の表面2688点、既存11経路、Windows export/EXE headless起動。逆向き歩行の速度消失も修正。Forward+/Compatibilityの峡谷32検査・入水撮影、標準visualの救助/ゴール、配布EXEの両方式120フレーム描画も成功。GPUは画面外・無音・非捕捉で行い、Codexが起動したプロセスのみ終了。
 
-GitHubは既存[下書きPR #2](https://github.com/shirai-masatomo/whitespace/pull/2)。remoteの探索commit `dec6b4a86696daea3294b76742c3580ee894af86` のCIは成功。今回の変更のCIはpush後に確認する。今回のpush実行は承認されたがremote先行で拒否されたため、`be1b24c` の管理文書更新を通常merge。タスクID衝突は内容を統合しDD-068へ分離。再push/CI確認を続ける。
+GitHubは[下書きPR #2](https://github.com/shirai-masatomo/whitespace/pull/2)。管理文書のremote更新を通常mergeして `7895b60` までpush済み、[CI成功](https://github.com/shirai-masatomo/whitespace/actions/runs/35487079649)。今回の横穴/描画改善は次のcommitでpushし、そのSHAのCIを確認する。
 
 ## 未解決と次の作業
 
-1. DD-064: 入水の藻へ向かう一択感。横穴/沖側/深部を、近景の葉を減らすだけでなく行く理由と見通しで比較。
+1. DD-064: 入水の藻へ向かう一択感。横穴は実到達できるが入口画面での存在感が弱い。沖側/深部と、行く理由・見通しで比較。
 2. DD-065: 段丘と岩橋はまだ人工的。自然写真の層状の欠け・窪み・生物密度差を使い、平面の廊下感を減らす。階段の小刻みな段差や狭い棚は未完成。
 3. DD-067: 前版との画面比較を継続。景観密度とプレイアブル密度を分け、行った先の見返りも確認。テスト成功から面白さを認定しない。
 

diff --git a/projects/001-first-release/AI_REVIEW.md b/projects/001-first-release/AI_REVIEW.md
@@ -115,3 +115,10 @@ Only Upは[公式説明](https://store.steampowered.com/app/2381590/Only_Up/)と
 12観点: 真下反復は峡谷の歩行/横断で減る / 入水の遮蔽は減るが横への誘いは弱い / 棚・橋・斜面・内部は実利用可 / 遠景すべてを踏破済みではない / 酸素が横への動機 / 自然より均質 / 魚は藻に集中し局所的 / 1分で泳ぐ・歩く・潜るへ変わる / 酸素と戻り道が水中の判断 / 岩列から連続面へ一歩 / 未知への牽引力は弱い / 人間にはまだ早い。
 
 ファイル監査: 旧01〜35のPNG68枚（両renderer）と未参照49画像2枚を削除。全Git管理文書にリンクなし、コード/試験は画像を読み込まず再生成するため回帰入力ではない。原本はGit `417f894`、生成はvisual/visual-reef。最新資料・before画像・連続画像・再現コード・使用中buildは保持。次はDD-064の分岐構図とDD-065の人工的な岩橋を改善する。
+
+
+## 浅海の横穴・実画面からの再試作
+
+CHANGES / SELF_CONTINUE。藻庭→裂け目→縦穴を実操作で接続。板状の壁案は画面批評で棄却し、縁と窪みを加工。加工範囲を全岩礁へ広げた案は元の着地ルートを塞いだので限定した。旧壁の検査位置が新設穴だった失敗と、実際の移動回帰を区別し、側壁/穴両側を実カプセルで再検証。157検査成功。
+
+景観密度: 海藻/魚/光はあるが、葉と平らな屋根が画面を支配。プレイアブル密度: 見える裂け目を横に通り縦穴へ抜ける利用を追加。前後画像で縁の格子と板壁は軽減したが、入口の発見性はまだ不十分。光のノイズ修正は読みやすさの改善であり、面白さの達成ではない。次は岩階段/狭棚と岩橋の輪郭。

diff --git a/projects/001-first-release/TASKS.md b/projects/001-first-release/TASKS.md
@@ -4,7 +4,7 @@ P0 > P1 > P2。開始時に `git fetch origin main` と正本2文書の `git sho
 
 | ID | 内容 | 優先度 | 状態 | 完了条件 | 依存 |
 | --- | --- | --- | --- | --- | --- |
-| DD-064 | 入水画面で進路を迷える構図 | P0 | IN_PROGRESS | 同じ入水位置で補給へ寄る/横を調べる/深部へ賭ける手掛かりを比較。未注釈画面と実到達/低酸素比較。物量や3択の数だけで合格にしない | 基準版289d598・DD-057 |
+| DD-064 | 入水画面で進路を迷える構図 | P0 | IN_PROGRESS | 藻庭→横穴→縦穴を実装・入力確認。次は同じ入水位置で補給へ寄る/横を調べる/深部へ賭ける手掛かりを比較。未注釈画面と実到達/低酸素比較。物量や3択の数だけで合格にしない | 基準版289d598・DD-057 |
 | DD-065 | 160mから岸壁内外を選ぶ場所 | P0 | IN_PROGRESS | 160〜240mの段丘/斜面/岩橋/下側/壁の横断口を試作。次は段差の細分化と岩橋の自然な輪郭。開放→半囲い→峡谷で、何を迷うかが画面から分かる。全11経路の維持だけでは完了しない | 最新人間方針（入水と独立して着手） |
 | DD-068 | 岩階段・段丘・狭棚の移動体験を比較 | P0 | IN_PROGRESS | 段丘下降と登り返し/斜面/橋上下は実操作済み。次は岩階段・狭棚を既存の場所へ統合し、動きの差と見返りで採否判断 | DD-065 |
 | DD-067 | 前版との画面品質・プレイアブル密度ゲート | P0 | IN_PROGRESS | 同一位置/カメラの前後画面で構図/複雑さ/密度差/行ける場所/行く理由を批評。経路数だけでPASSにしない。弱い案を捨てて再比較 | DD-064・065 |
